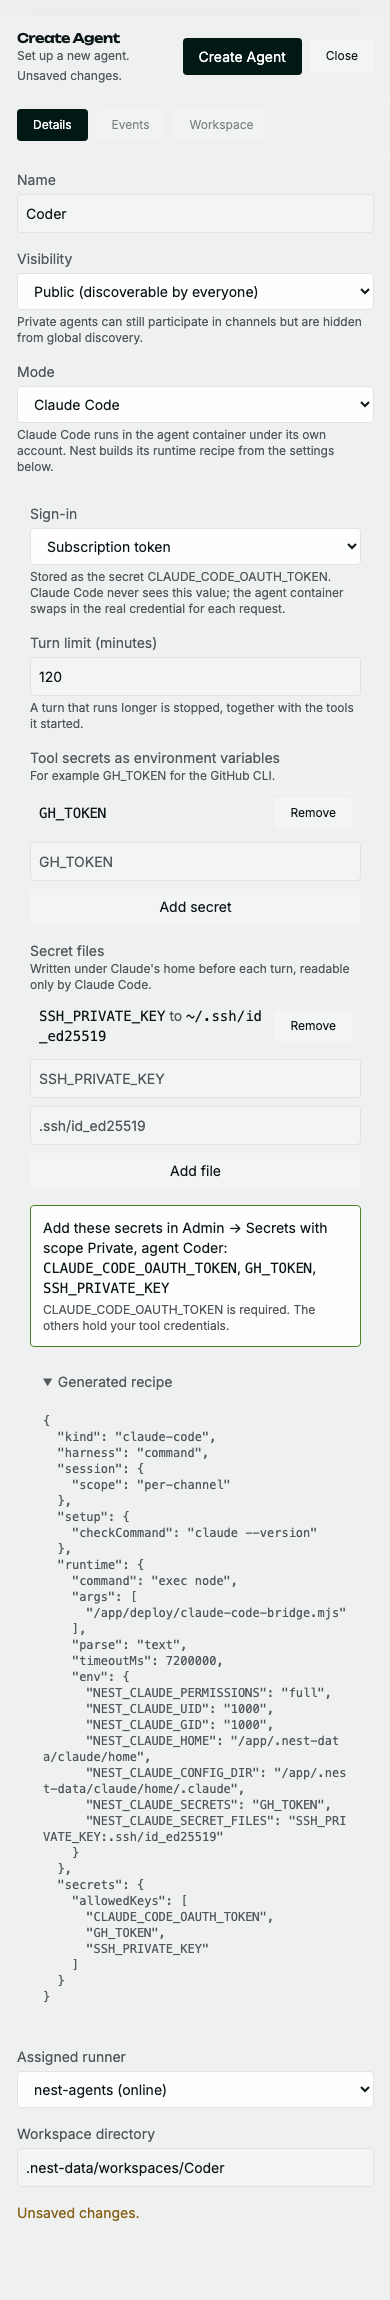
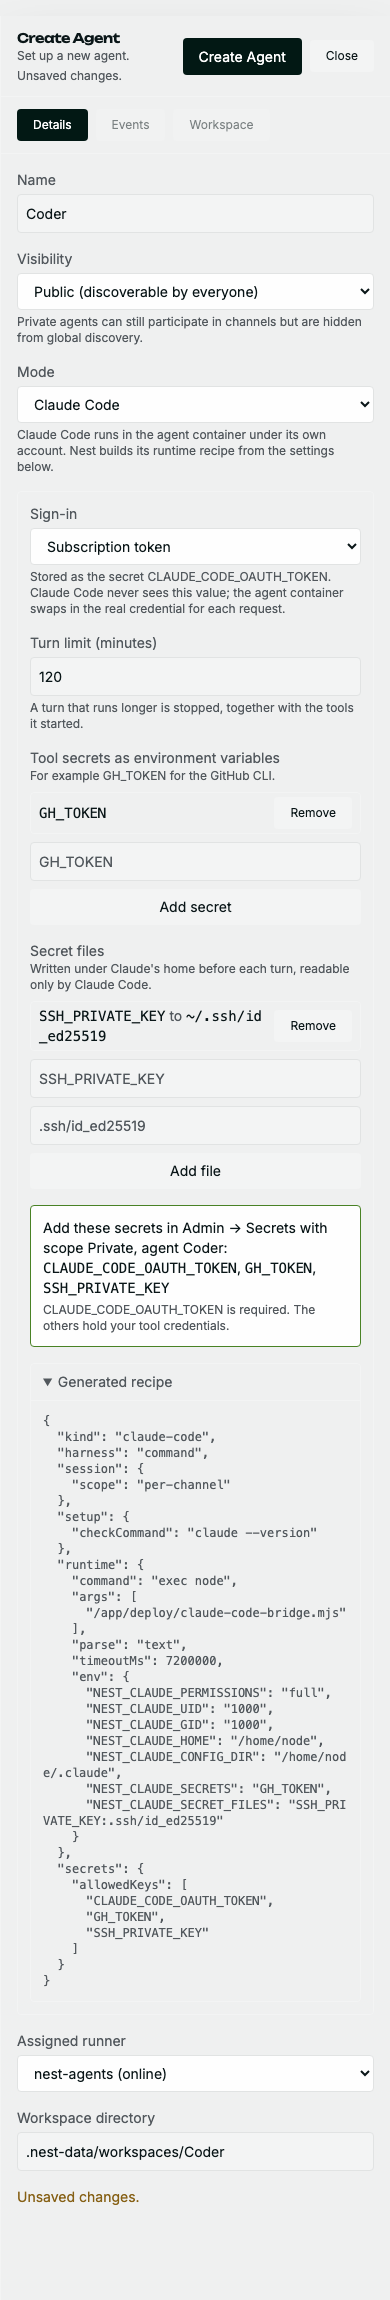
fix(agents): put Claude Code's home at the node account's home
OpenSSH reads ~/.ssh from the passwd home (/home/node) and ignores
HOME, so secret files written under /app/.nest-data/claude/home were
not used by ssh or git. The agent container now mounts its own volume
at /home/node and the Admin recipe uses it as Claude Code's home.

Changed region(s): [[0.0615, 0.7409, 0.8923, 0.9878]]

diff --git a/apps/admin-ui/src/claudeCodeAgent.ts b/apps/admin-ui/src/claudeCodeAgent.ts
@@ -20,7 +20,8 @@ export const DEFAULT_CLAUDE_CODE_OPTIONS: ClaudeCodeOptions = {
 // Set by deploy/compose.claude-agents.yaml for the runner-only agent container.
 export const CLAUDE_CODE_RUNNER_NAME = "nest-agents";
 
-const CLAUDE_HOME = "/app/.nest-data/claude/home";
+// The node account's passwd home, so ssh finds ~/.ssh; compose.claude-agents.yaml puts it on a volume.
+const CLAUDE_HOME = "/home/node";
 export const SHARED_DEFAULT_WORKSPACE = ".nest-data/workspaces/default";
 const MANAGED_ENV_KEYS = new Set([
   "NEST_CLAUDE_PERMISSIONS",

diff --git a/apps/admin-ui/src/claudeCodeAgent.test.ts b/apps/admin-ui/src/claudeCodeAgent.test.ts
@@ -37,8 +37,8 @@ describe("Claude Code agent recipe", () => {
           NEST_CLAUDE_PERMISSIONS: "full",
           NEST_CLAUDE_UID: "1000",
           NEST_CLAUDE_GID: "1000",
-          NEST_CLAUDE_HOME: "/app/.nest-data/claude/home",
-          NEST_CLAUDE_CONFIG_DIR: "/app/.nest-data/claude/home/.claude",
+          NEST_CLAUDE_HOME: "/home/node",
+          NEST_CLAUDE_CONFIG_DIR: "/home/node/.claude",
           NEST_CLAUDE_SECRETS: "GH_TOKEN",
           NEST_CLAUDE_SECRET_FILES: "SSH_PRIVATE_KEY:.ssh/id_ed25519"
         }

diff --git a/docs/CLAUDE_CODE_AGENT.md b/docs/CLAUDE_CODE_AGENT.md
@@ -36,9 +36,11 @@ The agent container:
 - registers with the Nest container over HTTP as the runner `nest-agents`, using
   `NEST_RUNNER_TOKEN`. It does not load Nest's `.env`, so Nest's admin password
   and master key never enter it;
-- keeps workspaces, Claude Code's home, history and session state on its own
-  volume (`nest-agents-data`, mounted at `/app/.nest-data`). Nest's data, product
-  and files volumes are not mounted;
+- keeps workspaces and session state on its own volume (`nest-agents-data`, at
+  `/app/.nest-data`) and Claude Code's home, config, history and secret files on
+  another (`nest-agents-home`, at `/home/node`). `/home/node` is the `node`
+  account's home in `/etc/passwd`, which `ssh` uses regardless of `HOME`. Nest's
+  data, product and files volumes are not mounted;
 - has the image's health check disabled (it runs no API) and a memory limit of
   `NEST_AGENTS_MEMORY`, 2 GB by default, so a runaway turn cannot starve Nest.
 
@@ -53,7 +55,7 @@ fills in the wrapped recipe for the agent container:
 - workspace `.nest-data/workspaces/<agent name>`, which follows the name until
   you edit it;
 - `full` permission profile, running Claude Code as the `node` account with its
-  home on the agent volume;
+  home at `/home/node` on the agent home volume;
 - one Claude Code session per channel;
 - a turn limit, 2 hours by default. The engine cannot cancel a running wrapped
   turn, so the limit is what ends a runaway turn; the bridge then stops Claude
